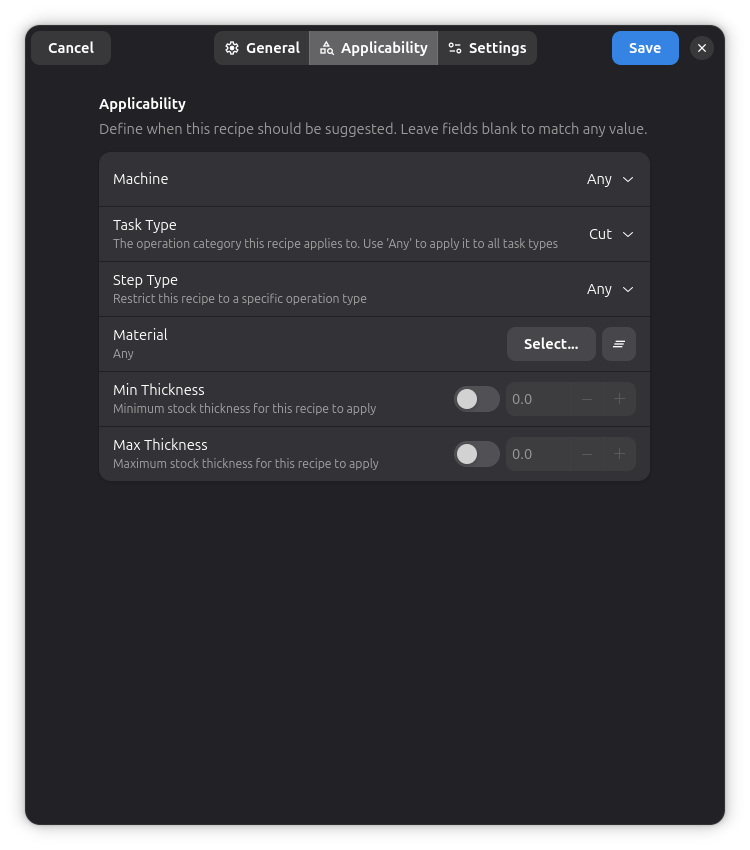
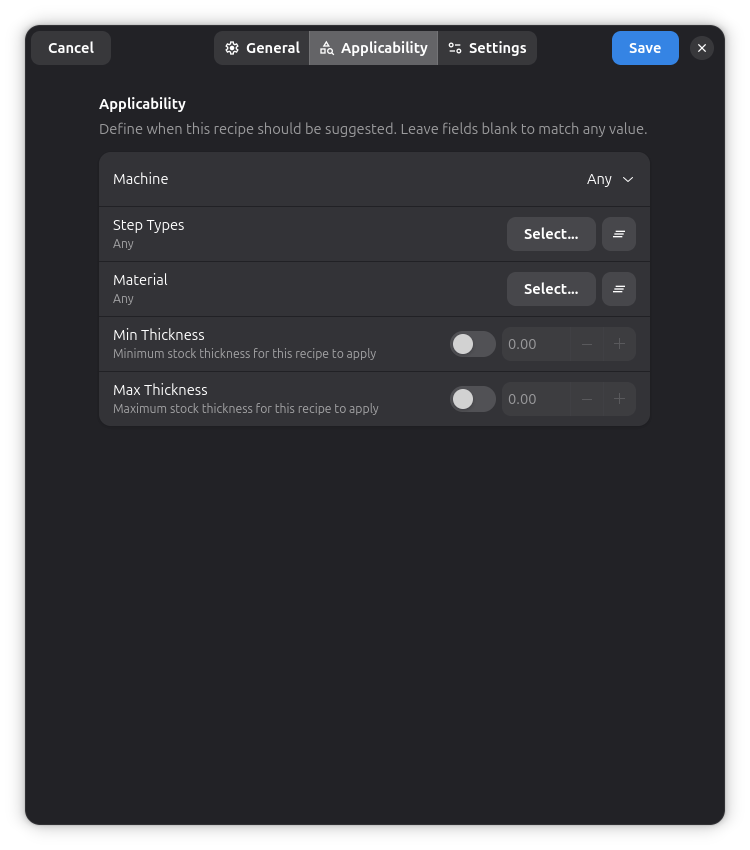
update recipe editor docs and screenshots

diff --git a/scripts/screenshot/utils.py b/scripts/screenshot/utils.py
@@ -24,12 +24,12 @@ import numpy as np
 from gi.repository import Adw, GLib
 from PIL import Image
 from PIL.PngImagePlugin import PngInfo
-from rayforge.ui_gtk.doceditor.edit_recipe_dialog import (
-    AddEditRecipeDialog,
-)
 
 from rayforge.core.recipe import Recipe
 from rayforge.core.step_registry import step_registry
+from rayforge.ui_gtk.doceditor.recipes import (
+    AddEditRecipeDialog,
+)
 from rayforge.ui_gtk.doceditor.step_settings.dialog import (
     StepSettingsDialog,
 )
@@ -658,12 +658,14 @@ def open_recipe_editor(
     """Open recipe editor dialog from app settings.
 
     Args:
-        page: Which tab to activate ("general", "applicability", or
-            "settings"). For "settings", ``settings_page`` selects which
-            of the dynamic settings pages to show.
+        page: Which tab to activate ("general", "applicability",
+            "settings", or "post-processing"). For "settings",
+            ``settings_page`` selects which of the dynamic settings
+            pages to show. "post-processing" requires ``step_type`` so
+            the tab exists.
         step_type: Optional step class name to target. Selecting a step
             type (e.g. a laser step) splits the settings into inherited
-            and step-specific pages.
+            and step-specific pages and enables the post-processing tab.
         settings_page: Index into the dynamic settings pages to activate
             when ``page`` is "settings".
     """
@@ -674,7 +676,7 @@ def open_recipe_editor(
     recipe = Recipe(name="3mm Plywood Cut")
     recipe.description = "A recipe for cutting 3mm plywood with a diode laser"
     if step_type:
-        recipe.target_step_type = step_type
+        recipe.target_step_types = [step_type]
 
     def _open() -> "AddEditRecipeDialog":
         dialog = AddEditRecipeDialog(
@@ -692,6 +694,10 @@ def open_recipe_editor(
             names = list(dialog._settings_pages)
             index = min(settings_page, len(names) - 1)
             dialog._tab_buttons[names[index]].set_active(True)
+        elif page == "post-processing":
+            button = dialog._tab_buttons.get("post-processing")
+            if button is not None:
+                button.set_active(True)
         return dialog
 
     dialog = run_on_main_thread(_open)

diff --git a/scripts/screenshot/recipe_editor_settings.py b/scripts/screenshot/recipe_editor_settings.py
@@ -1,4 +1,4 @@
-"""Screenshot: Recipe editor - Settings page."""
+"""Screenshot: Recipe editor - Laser, Step Settings, Post Processing pages."""
 
 import logging
 import time
@@ -13,13 +13,36 @@ from utils import (
 from rayforge.uiscript import app, win
 
 logger = logging.getLogger(__name__)
-PAGE = "settings"
+
+CONFIGS = {
+    "laser": {
+        "page": "settings",
+        "step_type": "ContourStep",
+        "settings_page": 0,
+    },
+    "step-settings": {
+        "page": "settings",
+        "step_type": "ContourStep",
+        "settings_page": 1,
+    },
+    "post-processing": {
+        "page": "post-processing",
+        "step_type": "ContourStep",
+    },
+}
 
 
 def main():
-    target = get_target(f"recipe-editor:{PAGE}")
+    target = get_target("recipe-editor:step-settings")
+    _, subpage = target.split(":", 1)
+    config = CONFIGS[subpage]
     time.sleep(0.25)
-    open_recipe_editor(win, PAGE)
+    open_recipe_editor(
+        win,
+        config["page"],
+        step_type=config.get("step_type"),
+        settings_page=config.get("settings_page", 0),
+    )
     time.sleep(0.25)
     take_screenshot(target_to_filename(target))
     time.sleep(0.25)

diff --git a/scripts/screenshot/cli.py b/scripts/screenshot/cli.py
@@ -72,8 +72,9 @@ TARGETS = {
     "operations:wavefront": "wavefront",
     "recipe-editor:general": "recipe_editor_general",
     "recipe-editor:applicability": "recipe_editor_applicability",
-    "recipe-editor:settings": "recipe_editor_settings",
-    "recipe-editor:step-settings": "recipe_editor_step_settings",
+    "recipe-editor:laser": "recipe_editor_settings",
+    "recipe-editor:step-settings": "recipe_editor_settings",
+    "recipe-editor:post-processing": "recipe_editor_settings",
     "sanity-check": "sanity_check",
     "step-settings:contour:general": "step_settings",
     "step-settings:contour:laser": "step_settings",

diff --git a/website/i18n/de/docusaurus-plugin-content-docs/current/application-settings/recipes.md b/website/i18n/de/docusaurus-plugin-content-docs/current/application-settings/recipes.md
@@ -55,16 +55,14 @@ Alle Kriterien sind optional - lasse jedes Feld auf seinem Wert "Beliebig", um a
 
 #### 4. Einstellungen konfigurieren
 
-**Register "Einstellungen"** - Leistung, Geschwindigkeit und andere Parameter anpassen:
+**Register "Einstellungen"** - Leistung, Geschwindigkeit und andere
+Parameter anpassen. Wenn das Rezept auf einen bestimmten **Schritt-Typ**
+abzielt, zeigt der Editor zwei Einstellungsseiten: eine Seite "Laser"
+mit den gemeinsamen Prozesseinstellungen (Leistung, Air-Assist, usw.)
+und eine Seite "Schritt-Einstellungen" mit den Attributen, die für
+diesen Schritt-Typ spezifisch sind (z.B. Schnittseite, Schnittreihenfolge):
 
-![Rezept-Editor - Register Einstellungen](/screenshots/recipe-editor-settings.png)
-
-Die Einstellungs-Register passen sich der Auswahl auf dem Register "Anwendbarkeit" an:
-
-- Wenn das Rezept auf einen bestimmten **Schritt-Typ** abzielt, zeigt der Editor
-  zwei Einstellungsseiten: eine Seite "Laser" mit den gemeinsamen Prozesseinstellungen
-  (Leistung, Air-Assist, usw.) und eine Seite "Schritt-Einstellungen" mit den
-  Attributen, die für diesen Schritt-Typ spezifisch sind (z.B. Schnittseite, Schnittreihenfolge)
+![Rezept-Editor - Register Laser](/screenshots/recipe-editor-laser.png)
 
 ![Rezept-Editor - Register Schritt-Einstellungen](/screenshots/recipe-editor-step-settings.png)
 
@@ -72,6 +70,24 @@ Die Einstellungs-Register passen sich der Auswahl auf dem Register "Anwendbarkei
   wird eine einzelne Seite "Einstellungen" mit den Prozesseinstellungen für diese Aufgabe angezeigt
 - Bei "Beliebig" für beide werden nur die Basis-Bewegungseinstellungen (Schnittgeschwindigkeit
   und Fahrgeschwindigkeit) angezeigt, die allen Schritten gemeinsam sind
+
+**Register "Nachbearbeitung"** - Speichern Sie
+Nachbearbeitungseinstellungen (Ein-/Ausfahrwege, Mehrfachdurchgänge,
+Overscan und andere Transformationen) im Rezept, damit sie auf die
+Schritte angewendet werden, die das Rezept anvisiert:
+
+![Rezept-Editor - Register Nachbearbeitung](/screenshots/recipe-editor-post-processing.png)
+
+Jede Transformation wird mit einer Drei-Zustands-Schaltfläche angezeigt:
+
+- **Unverändert lassen**: Das Rezept berührt diese Transformation bei
+  der Anwendung nicht
+- **Aktiviert**: Das Rezept aktiviert die Transformation und überträgt
+  ihre Parameter auf den Schritt
+- **Deaktiviert**: Das Rezept schaltet die Transformation explizit aus
+
+Wenn das Rezept mehrere Schritt-Typen anvisiert, werden nur die
+Transformationen angezeigt, die allen gemeinsam sind.
 
 ### Rezept-Matching-System
 

diff --git a/website/i18n/fr/docusaurus-plugin-content-docs/current/application-settings/recipes.md b/website/i18n/fr/docusaurus-plugin-content-docs/current/application-settings/recipes.md
@@ -52,18 +52,31 @@ Tous les critères sont optionnels - laissez n'importe quel champ à sa valeur "
 
 #### 4. Configurer les Paramètres
 
-**Onglet Paramètres** - Ajuster la puissance, vitesse et autres paramètres :
+**Onglet Paramètres** - Ajuster la puissance, vitesse et autres paramètres. Lorsque la recette cible un **type d'étape** spécifique, l'éditeur affiche deux pages de paramètres : une page "Laser" avec les paramètres de processus partagés (puissance, assistance d'air, etc.) et une page "Paramètres d'Étape" avec les attributs spécifiques à ce type d'étape (ex : côté de coupe, ordre de coupe) :
 
-![Éditeur de Recettes - Onglet Paramètres](/screenshots/recipe-editor-settings.png)
-
-Les onglets de paramètres s'adaptent à la sélection effectuée sur l'onglet Applicabilité :
-
-- Lorsque la recette cible un **type d'étape** spécifique, l'éditeur affiche deux pages de paramètres : une page "Laser" avec les paramètres de processus partagés (puissance, assistance d'air, etc.) et une page "Paramètres d'Étape" avec les attributs spécifiques à ce type d'étape (ex : côté de coupe, ordre de coupe)
+![Éditeur de Recettes - Onglet Laser](/screenshots/recipe-editor-laser.png)
 
 ![Éditeur de Recettes - Onglet Paramètres d'Étape](/screenshots/recipe-editor-step-settings.png)
 
 - Sélectionner uniquement un **type de tâche** (avec "Tout Type" comme type d'étape) affiche une seule page "Paramètres" avec les paramètres de processus pour cette tâche
 - Laisser les deux à "Tout" affiche uniquement les paramètres de mouvement de base (vitesse de coupe et vitesse de déplacement) partagés par toutes les étapes
+
+**Onglet Post-Traitement** - Stockez les paramètres de post-traitement
+(entrée/sortie, passes multiples, overscan et autres transformateurs) sur
+la recette afin qu'ils soient appliqués aux étapes ciblées :
+
+![Éditeur de Recettes - Onglet Post-Traitement](/screenshots/recipe-editor-post-processing.png)
+
+Chaque transformateur est affiché avec un bouton à trois états :
+
+- **Laisser inchangé** : la recette ne touche pas à ce transformateur
+  lorsqu'elle est appliquée
+- **Activé** : la recette active le transformateur et applique ses
+  paramètres à l'étape
+- **Désactivé** : la recette désactive explicitement le transformateur
+
+Lorsque la recette cible plusieurs types d'étape, seuls les transformateurs
+communs à tous sont affichés.
 
 ### Système de Correspondance des Recettes
 

diff --git a/website/i18n/pt-BR/docusaurus-plugin-content-docs/current/application-settings/recipes.md b/website/i18n/pt-BR/docusaurus-plugin-content-docs/current/application-settings/recipes.md
@@ -62,17 +62,14 @@ para corresponder a tudo:
 
 #### 4. Configure as Definições
 
-**Aba Configurações** - Ajuste potência, velocidade e outros parâmetros:
+**Aba Configurações** - Ajuste potência, velocidade e outros parâmetros.
+Quando a receita tem como alvo um **tipo de etapa** específico, o editor
+mostra duas páginas de configurações: uma página "Laser" com as
+configurações de processo compartilhadas (potência, assistência de ar, etc.)
+e uma página "Configurações de Etapa" com os atributos específicos daquele
+tipo de etapa (ex. lado de corte, ordem de corte):
 
-![Editor de Receitas - Aba Configurações](/screenshots/recipe-editor-settings.png)
-
-As abas de configurações se adaptam à seleção feita na aba Aplicabilidade:
-
-- Quando a receita tem como alvo um **tipo de etapa** específico, o editor
-  mostra duas páginas de configurações: uma página "Laser" com as
-  configurações de processo compartilhadas (potência, assistência de ar, etc.)
-  e uma página "Configurações de Etapa" com os atributos específicos daquele
-  tipo de etapa (ex. lado de corte, ordem de corte)
+![Editor de Receitas - Aba Laser](/screenshots/recipe-editor-laser.png)
 
 ![Editor de Receitas - Aba Configurações de Etapa](/screenshots/recipe-editor-step-settings.png)
 
@@ -82,6 +79,23 @@ As abas de configurações se adaptam à seleção feita na aba Aplicabilidade:
 - Deixar ambos como "Qualquer" mostra apenas as configurações básicas de
   movimento (velocidade de corte e velocidade de deslocamento) que são
   compartilhadas por todas as etapas
+
+**Aba Pós-Processamento** - Armazene configurações de pós-processamento
+(entrada/saída, multipasse, overscan e outros transformadores) na receita
+para que sejam aplicadas às etapas que ela tem como alvo:
+
+![Editor de Receitas - Aba Pós-Processamento](/screenshots/recipe-editor-post-processing.png)
+
+Cada transformador é mostrado com um botão de três estados:
+
+- **Deixar inalterado**: a receita não toca neste transformador ao ser
+  aplicada
+- **Habilitado**: a receita ativa o transformador e aplica seus parâmetros
+  à etapa
+- **Desabilitado**: a receita desativa explicitamente o transformador
+
+Quando a receita tem como alvo vários tipos de etapa, apenas os
+transformadores comuns a todos são mostrados.
 
 ### Sistema de Correspondência de Receitas
 

diff --git a/website/i18n/es/docusaurus-plugin-content-docs/current/application-settings/recipes.md b/website/i18n/es/docusaurus-plugin-content-docs/current/application-settings/recipes.md
@@ -62,18 +62,14 @@ Todos los criterios son opcionales - deja cualquier campo en su valor
 
 #### 4. Configurar Ajustes
 
-**Pestaña de Ajustes** - Ajusta potencia, velocidad y otros parámetros:
+**Pestaña de Ajustes** - Ajusta potencia, velocidad y otros parámetros.
+Cuando la receta se dirige a un **tipo de paso** específico, el editor
+muestra dos páginas de ajustes: una página "Laser" con los ajustes de
+proceso compartidos (potencia, asistencia de aire, etc.) y una página
+"Ajustes de Paso" con los atributos específicos de ese tipo de paso
+(ej., lado de corte, orden de corte):
 
-![Editor de Recetas - Pestaña Ajustes](/screenshots/recipe-editor-settings.png)
-
-Las pestañas de ajustes se adaptan a la selección realizada en la pestaña
-de Aplicabilidad:
-
-- Cuando la receta se dirige a un **tipo de paso** específico, el editor
-  muestra dos páginas de ajustes: una página "Laser" con los ajustes de
-  proceso compartidos (potencia, asistencia de aire, etc.) y una página
-  "Ajustes de Paso" con los atributos específicos de ese tipo de paso
-  (ej., lado de corte, orden de corte)
+![Editor de Recetas - Pestaña Laser](/screenshots/recipe-editor-laser.png)
 
 ![Editor de Recetas - Pestaña Ajustes de Paso](/screenshots/recipe-editor-step-settings.png)
 
@@ -82,6 +78,22 @@ de Aplicabilidad:
   para esa tarea
 - Dejar ambos en "Any" muestra solo los ajustes de movimiento base
   (velocidad de corte y velocidad de viaje) que comparten todos los pasos
+
+**Pestaña de Post-Procesamiento** - Almacena ajustes de post-procesamiento
+(entrada/salida, multipase, overscan y otros transformadores) en la
+receta para que se apliquen a los pasos que esta tiene como objetivo:
+
+![Editor de Recetas - Pestaña Post-Procesamiento](/screenshots/recipe-editor-post-processing.png)
+
+Cada transformador se muestra con un botón de tres estados:
+
+- **Dejar sin cambios**: la receta no toca este transformador al aplicarse
+- **Habilitado**: la receta activa el transformador y aplica sus
+  parámetros al paso
+- **Deshabilitado**: la receta desactiva explícitamente el transformador
+
+Cuando la receta tiene como objetivo varios tipos de paso, solo se
+muestran los transformadores comunes a todos ellos.
 
 ### Sistema de Coincidencia de Recetas
 

diff --git a/website/docs/application-settings/recipes.md b/website/docs/application-settings/recipes.md
@@ -61,16 +61,13 @@ everything:
 
 #### 4. Configure Settings
 
-**Settings Tab** - Adjust power, speed, and other parameters:
+**Settings Tab** - Adjust power, speed, and other parameters. When the
+recipe targets a specific **step type**, the editor shows two settings
+pages: a "Laser" page with the shared process settings (power, air
+assist, etc.) and a "Step Settings" page with the attributes specific to
+that step type (e.g. cut side, cut order):
 
-![Recipe Editor - Settings Tab](/screenshots/recipe-editor-settings.png)
-
-The settings tabs adapt to the selection made on the Applicability tab:
-
-- When the recipe targets a specific **step type**, the editor shows
-  two settings pages: a "Laser" page with the shared process settings
-  (power, air assist, etc.) and a "Step Settings" page with the
-  attributes specific to that step type (e.g. cut side, cut order)
+![Recipe Editor - Laser Tab](/screenshots/recipe-editor-laser.png)
 
 ![Recipe Editor - Step Settings Tab](/screenshots/recipe-editor-step-settings.png)
 
@@ -78,6 +75,23 @@ The settings tabs adapt to the selection made on the Applicability tab:
   shows a single "Settings" page with the process settings for that task
 - Leaving both at "Any" shows only the base motion settings (cut speed
   and travel speed) that are shared by all steps
+
+**Post Processing Tab** - Store post-processor settings (lead-in/out,
+multipass, overscan, and other transformers) on the recipe so they are
+applied to the steps it targets:
+
+![Recipe Editor - Post Processing Tab](/screenshots/recipe-editor-post-processing.png)
+
+Each transformer is shown with a tri-state button:
+
+- **Leave Unchanged**: the recipe does not touch this transformer when
+  applied
+- **Enabled**: the recipe turns the transformer on and stamps its
+  parameters onto the step
+- **Disabled**: the recipe explicitly turns the transformer off
+
+When the recipe targets multiple step types, only the transformers
+common to all of them are shown.
 
 ### Recipe Matching System
 
